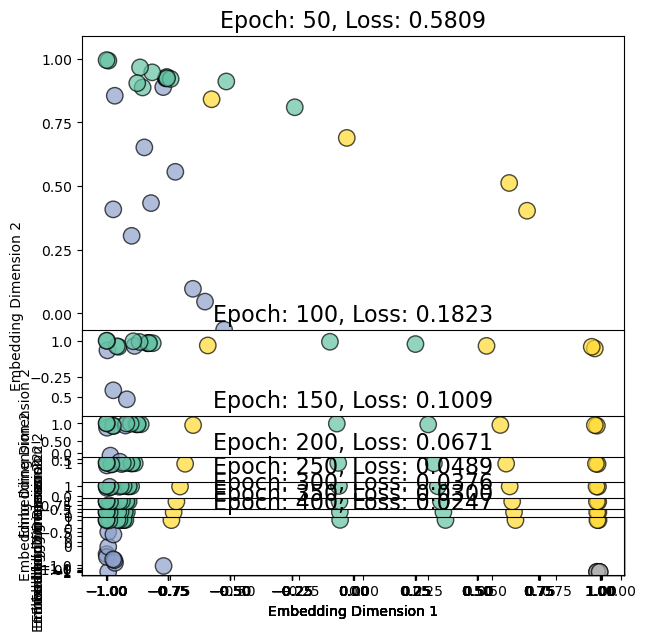
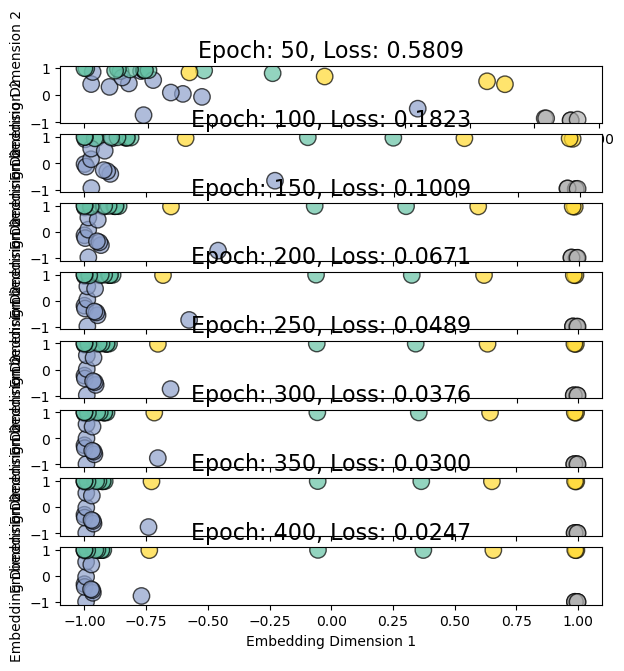
Fix overlapping subplot plots
Fixed addition of subplots by computing the total number of subplots
first, then correctly passing the index for the subplot to draw after
that

Changed region(s): [[0.0, 0.0, 1.0, 0.9984], [0.7612, 0.0936, 0.8221, 0.156]]

diff --git a/GNN/introduction/main.py b/GNN/introduction/main.py
@@ -283,6 +283,10 @@ def main():
     vis_freq = 50
     print(f"Visualizing node embeddings every {vis_freq} epochs")
 
+    # compute the total number of visualizations
+    total_vis = num_epochs // vis_freq
+    print(f"Total number of visualizations: {total_vis}")
+
     # number of visualizations counter
     n_vis = 0
 
@@ -299,7 +303,7 @@ def main():
         if epoch % vis_freq == 0:
             # subplot index is based on the number of visualizations previously done
             n_vis += 1
-            subidx = (n_vis, 1, n_vis)
+            subidx = (total_vis, 1, n_vis)
 
             print(f"Epoch: {epoch}, Loss: {loss.item():.4f}")
             print(f"Plotting node embeddings for epoch {epoch}...")

diff --git a/GNN/introduction/README.md b/GNN/introduction/README.md
@@ -91,6 +91,7 @@ Parameter Group 0
 )
 Number of training epochs: 400
 Visualizing node embeddings every 50 epochs
+Total number of visualizations: 8
 ============================================
 Starting training for 400 epochs...
 Epoch: 50, Loss: 0.5809
